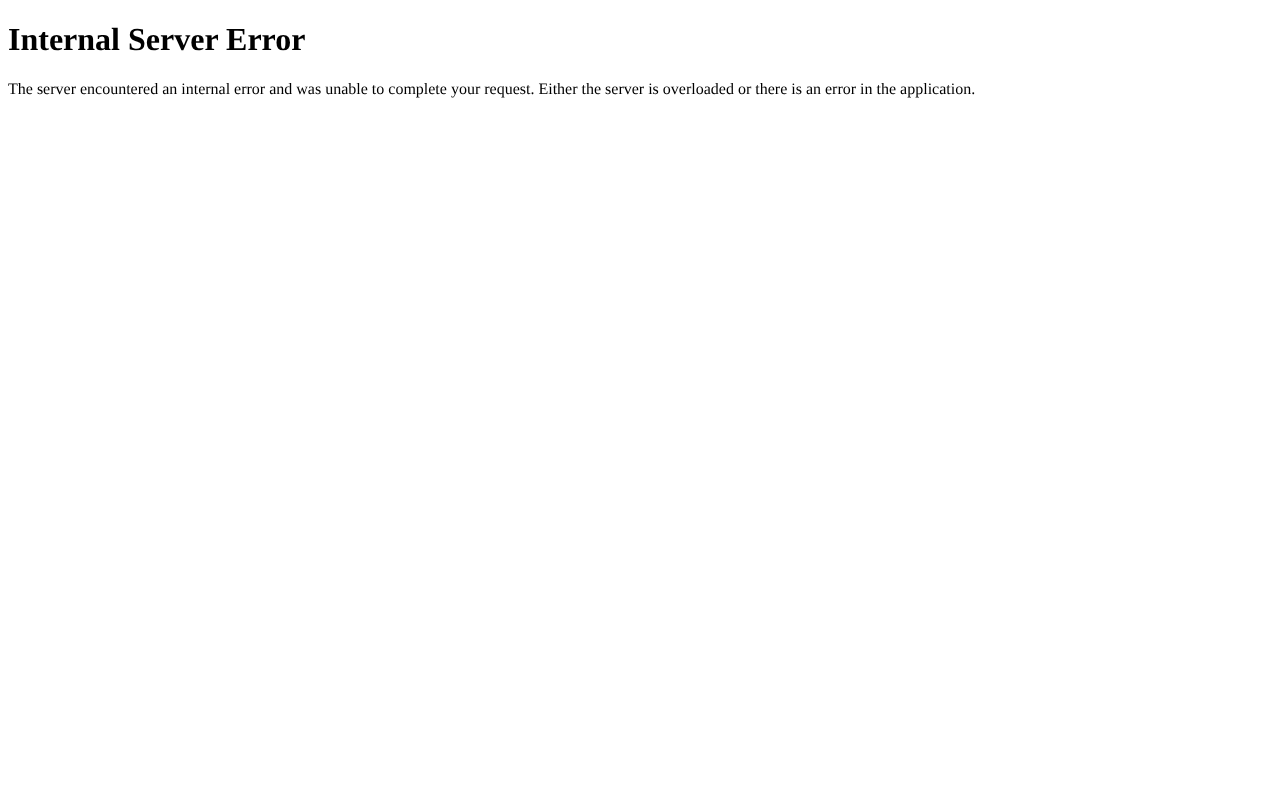
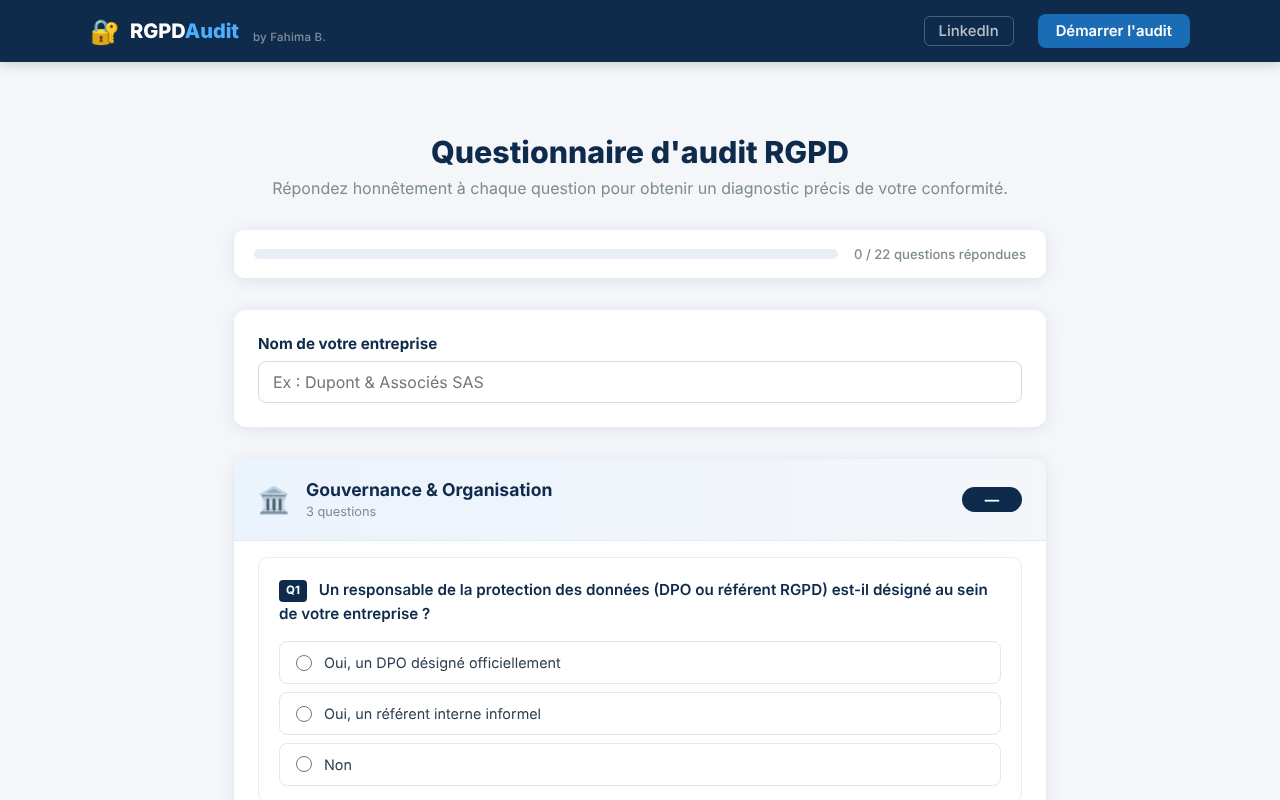
Prêt pour Cloud Run : Dockerfile, gunicorn, SECRET_KEY ; correction de la page questionnaire (erreur 500)
Claude-Session: https://claude.ai/code/session_01UztqktEkUyr5pgGeSj81x5

diff --git a/templates/audit.html b/templates/audit.html
@@ -13,7 +13,7 @@
     <div class="progress-bar-outer">
       <div class="progress-bar-inner" id="progressBar" style="width:0%"></div>
     </div>
-    <span class="progress-label" id="progressLabel">0 / {{ questions_by_cat.values() | sum(attribute='questions') | list | length }} questions répondues</span>
+    <span class="progress-label" id="progressLabel">0 / {{ total_questions }} questions répondues</span>
   </div>
 
   <form method="POST" action="{{ url_for('audit') }}" id="auditForm">
@@ -72,7 +72,7 @@
 </div>
 
 <script>
-const TOTAL = {{ questions_by_cat.values() | sum(attribute='questions') | list | length }};
+const TOTAL = {{ total_questions }};
 const catCounts = {};
 {% for cat in categories %}
 catCounts["{{ cat.id }}"] = {{ questions_by_cat[cat.id].questions | length }};

diff --git a/app.py b/app.py
@@ -4,7 +4,11 @@ from pdf_report import generate_pdf
 import json, os
 
 app = Flask(__name__)
-app.secret_key = os.urandom(24)
+# En production (Cloud Run), SECRET_KEY est fournie par l'environnement :
+# une clé fixe garde les sessions valides d'une instance à l'autre.
+app.secret_key = os.environ.get("SECRET_KEY") or os.urandom(24)
+app.config.update(SESSION_COOKIE_HTTPONLY=True, SESSION_COOKIE_SAMESITE="Lax",
+                  SESSION_COOKIE_SECURE=os.environ.get("K_SERVICE") is not None)
 
 
 def compute_scores(answers: dict):
@@ -86,7 +90,7 @@ def audit():
             "questions": [q for q in QUESTIONS if q["category"] == c["id"]],
         }
 
-    return render_template("audit.html", categories=CATEGORIES, questions_by_cat=questions_by_cat)
+    return render_template("audit.html", categories=CATEGORIES, questions_by_cat=questions_by_cat, total_questions=len(QUESTIONS))
 
 
 @app.route("/results")

diff --git a/README.md b/README.md
@@ -50,10 +50,21 @@ pip install -r requirements.txt
 python app.py            # http://localhost:5000
 ```
 
+## ☁ Déployer sur Google Cloud Run
+
+L'app est prête pour la production : `Dockerfile`, serveur `gunicorn`, cookies de session sécurisés.
+
+1. Console Google Cloud → **Cloud Run** → **Déployer un conteneur** → **Déployer en continu depuis un dépôt**
+2. Relier ce dépôt GitHub, branche `main`, type de compilation **Dockerfile**
+3. Région `europe-west9` (Paris) · **Autoriser les appels non authentifiés**
+4. Variable d'environnement `SECRET_KEY` : une longue chaîne aléatoire
+5. Chaque `git push` sur `main` redéploie automatiquement
+
 ## 🗂 Structure
 
 ```
 app.py          → routes Flask + calcul des scores pondérés
+Dockerfile      → image de production (gunicorn) pour Cloud Run
 questions.py    → référentiel : 7 domaines, 22 questions, recommandations
 pdf_report.py   → génération du rapport PDF (ReportLab)
 templates/      → accueil, questionnaire, résultats
@@ -62,7 +73,6 @@ static/         → styles et progression du questionnaire
 
 ## 🧭 Pistes d'évolution
 
-- Déploiement cloud (GCP) pour un accès en ligne
 - Volet **AI Act** pour les PME qui utilisent de l'IA
 - Mode « consultant » : suivi de plusieurs clients et comparaison dans le temps
 
